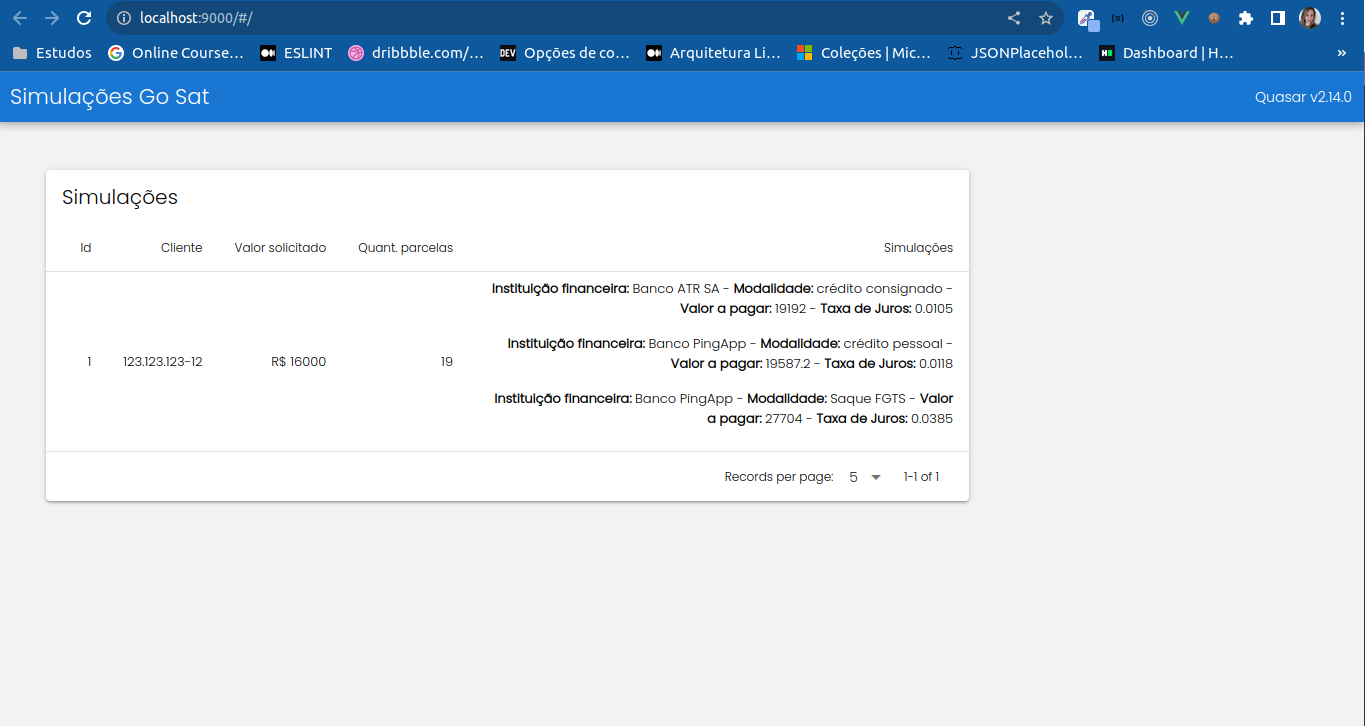
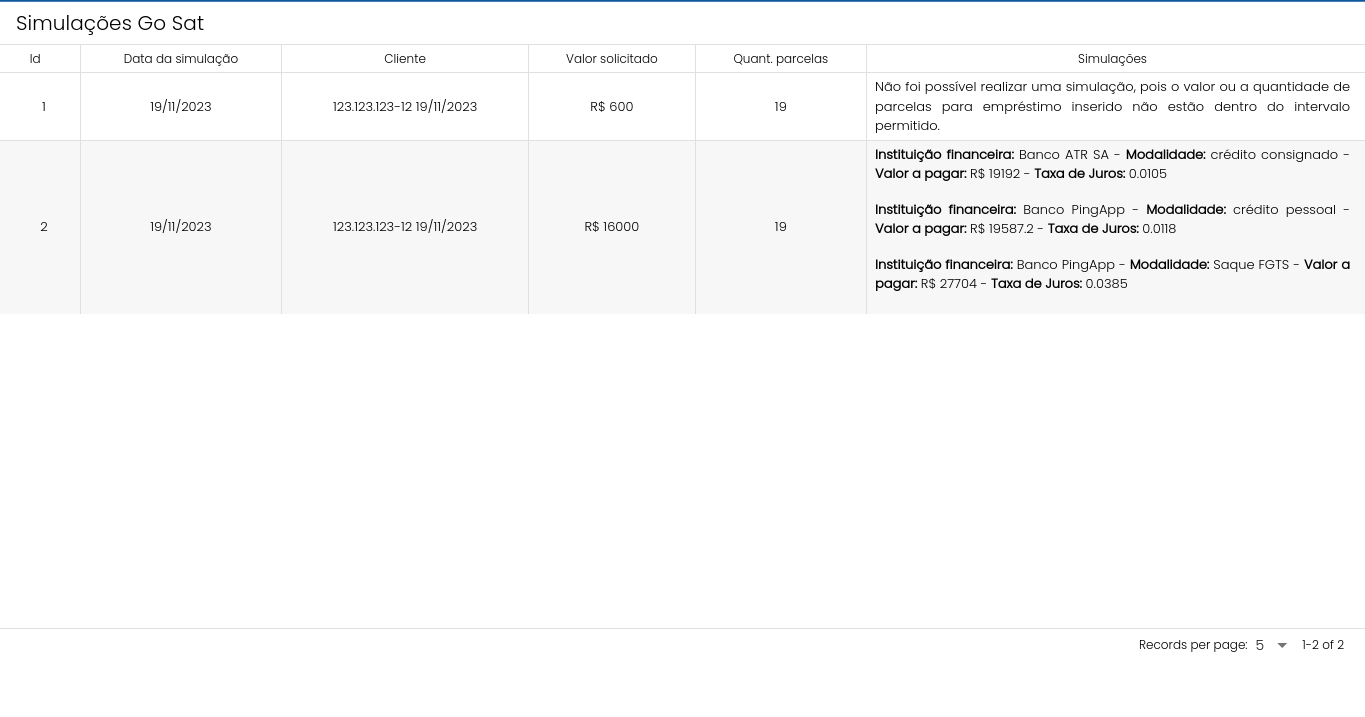
feat: Ajustes tabela

diff --git a/src/components/SimulationsTable.vue b/src/components/SimulationsTable.vue
@@ -1,22 +1,30 @@
 <template>
   <div>
     <q-table
-      title="Simulações"
+      title="Simulações Go Sat"
       :rows="rows"
       :columns="columns"
       row-key="name"
-      style="max-width: 800vw"
       no-data-label="Não há simulações salvas no banco!"
       :loading="loading"
+      fullscreen
+      dense
+      separator="cell"
+      class="text-center"
     >
       <template v-slot:body="props">
-        <q-tr :props="props" class="">
+        <q-tr :props="props" class="text-center">
           <q-td key="id" :props="props">
             {{ props.row.id }}
           </q-td>
 
+          <q-td key="created_at" :props="props">
+            {{ props.row.created_at }}
+          </q-td>
+
           <q-td key="cliente" :props="props">
             {{ props.row.cliente }}
+            {{ props.row.created_at }}
           </q-td>
 
           <q-td key="valorSolicitado" :props="props">
@@ -31,6 +39,7 @@
             <div
               v-for="simulacao in props.row.simulacoes"
               :key="simulacao.modalidadeCredito"
+              class="text-justify"
             >
               <div v-if="typeof simulacao !== 'string'">
                 <p>
@@ -40,12 +49,12 @@
                   {{ simulacao.instituicaoFinanceira }} -
                   <span class="text-weight-bold"> Modalidade: </span>
                   {{ simulacao.modalidadeCredito }} -
-                  <span class="text-weight-bold"> Valor a pagar: </span
-                  >{{ simulacao.valorApagar }} -
+                  <span class="text-weight-bold"> Valor a pagar: </span> R$
+                  {{ simulacao.valorApagar }}
+                  -
                   <span class="text-weight-bold"> Taxa de Juros:</span>
                   {{ simulacao.taxaJuros }}
                 </p>
-                <p></p>
               </div>
               <div v-else>
                 {{ simulacao }}
@@ -74,21 +83,33 @@ export default defineComponent({
           label: 'Id',
           field: 'id',
           sortable: true,
+          align: 'center',
+        },
+
+        {
+          name: 'created_at',
+          label: 'Data da simulação',
+          field: 'created_at',
+
+          align: 'center',
         },
         {
           name: 'cliente',
           label: 'Cliente',
           field: 'cliente',
+          align: 'center',
         },
         {
           name: 'valorSolicitado',
           label: 'Valor solicitado',
           field: 'valorSolicitado',
+          align: 'center',
         },
         {
           name: 'qntParcelas',
           label: 'Quant. parcelas',
           field: 'qntParcelas',
+          align: 'center',
         },
         {
           name: 'simulacoes',
@@ -96,6 +117,7 @@ export default defineComponent({
           field: 'simulacoes',
           style: 'width: 500px',
           headerStyle: 'width: 100px',
+          align: 'center',
         },
       ],
       rows: <Rows[]>[],
@@ -126,6 +148,7 @@ export default defineComponent({
       this.rows = data.map((item) => {
         return {
           id: item.id,
+          created_at: new Date(item.created_at).toLocaleDateString('pt-BR'),
           cliente: cpf.format(item.cliente),
           valorSolicitado: `R$ ${item.valorSolicitado}`,
           qntParcelas: item.qntParcelas,

diff --git a/src/components/models.ts b/src/components/models.ts
@@ -11,6 +11,7 @@ export interface Simulations {
   valorSolicitado: number;
   qntParcelas: number;
   simulacoes: Simulation[] | string[];
+  created_at: Date;
 }
 
 export interface Rows {
